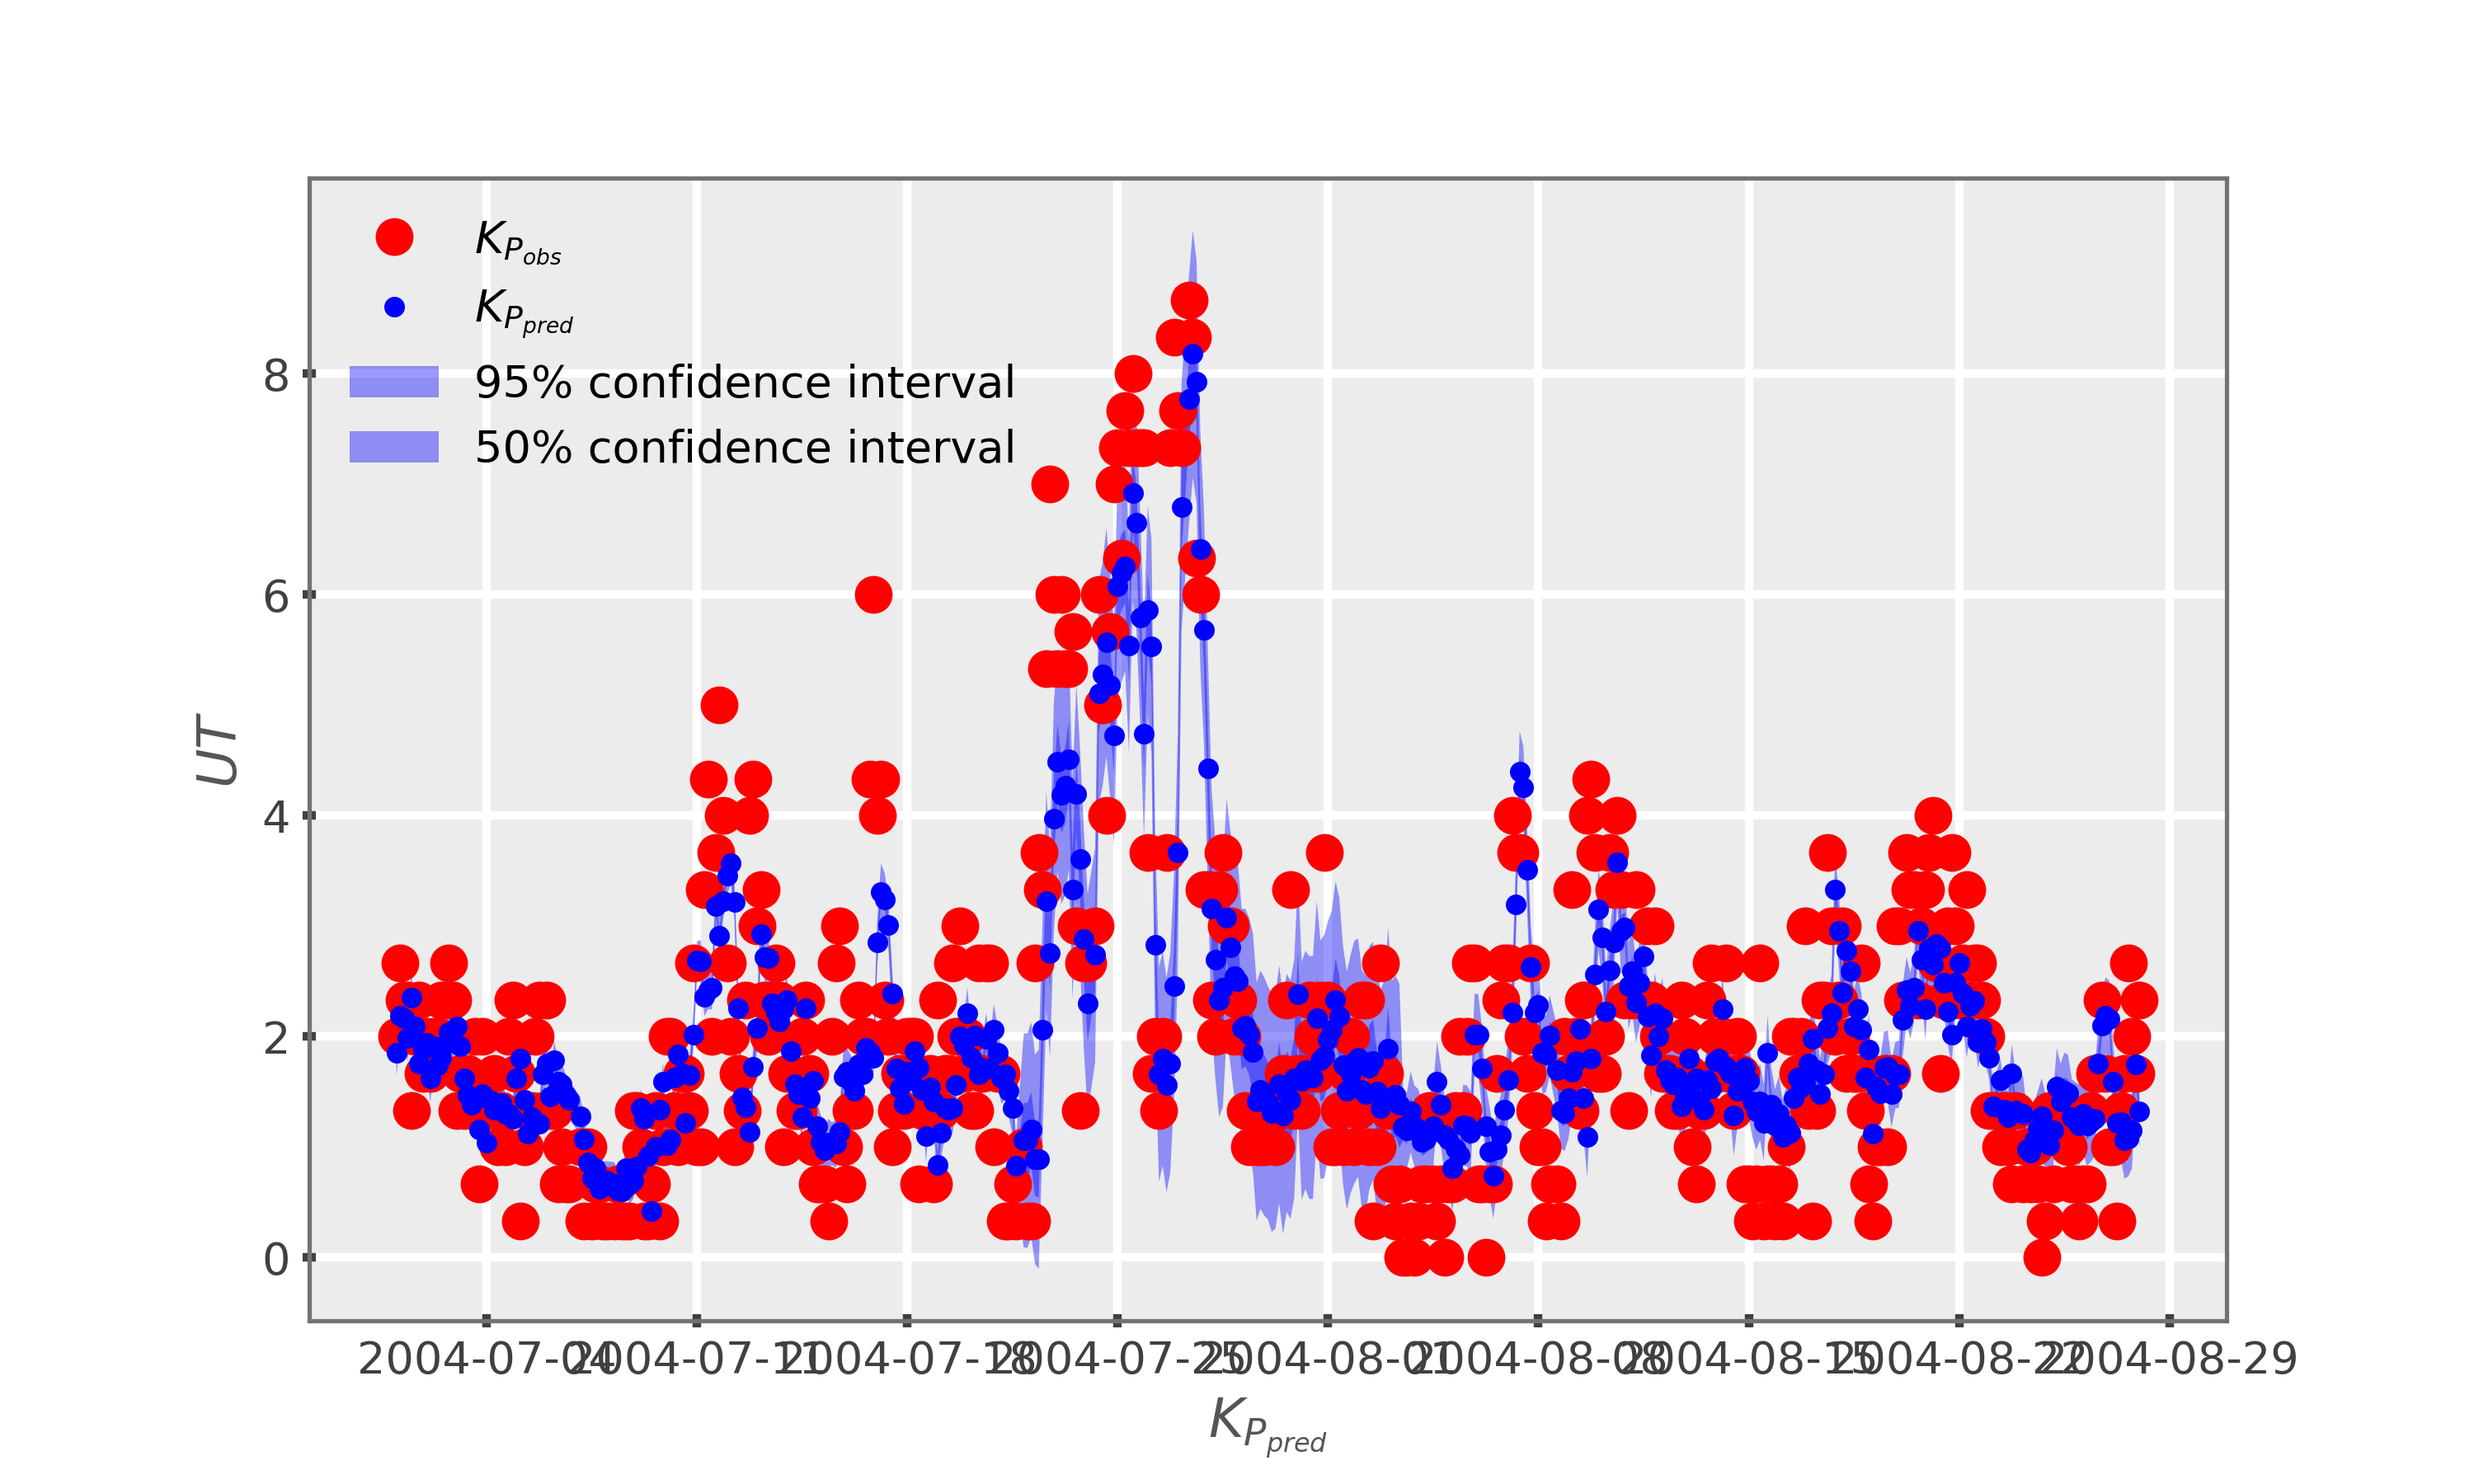
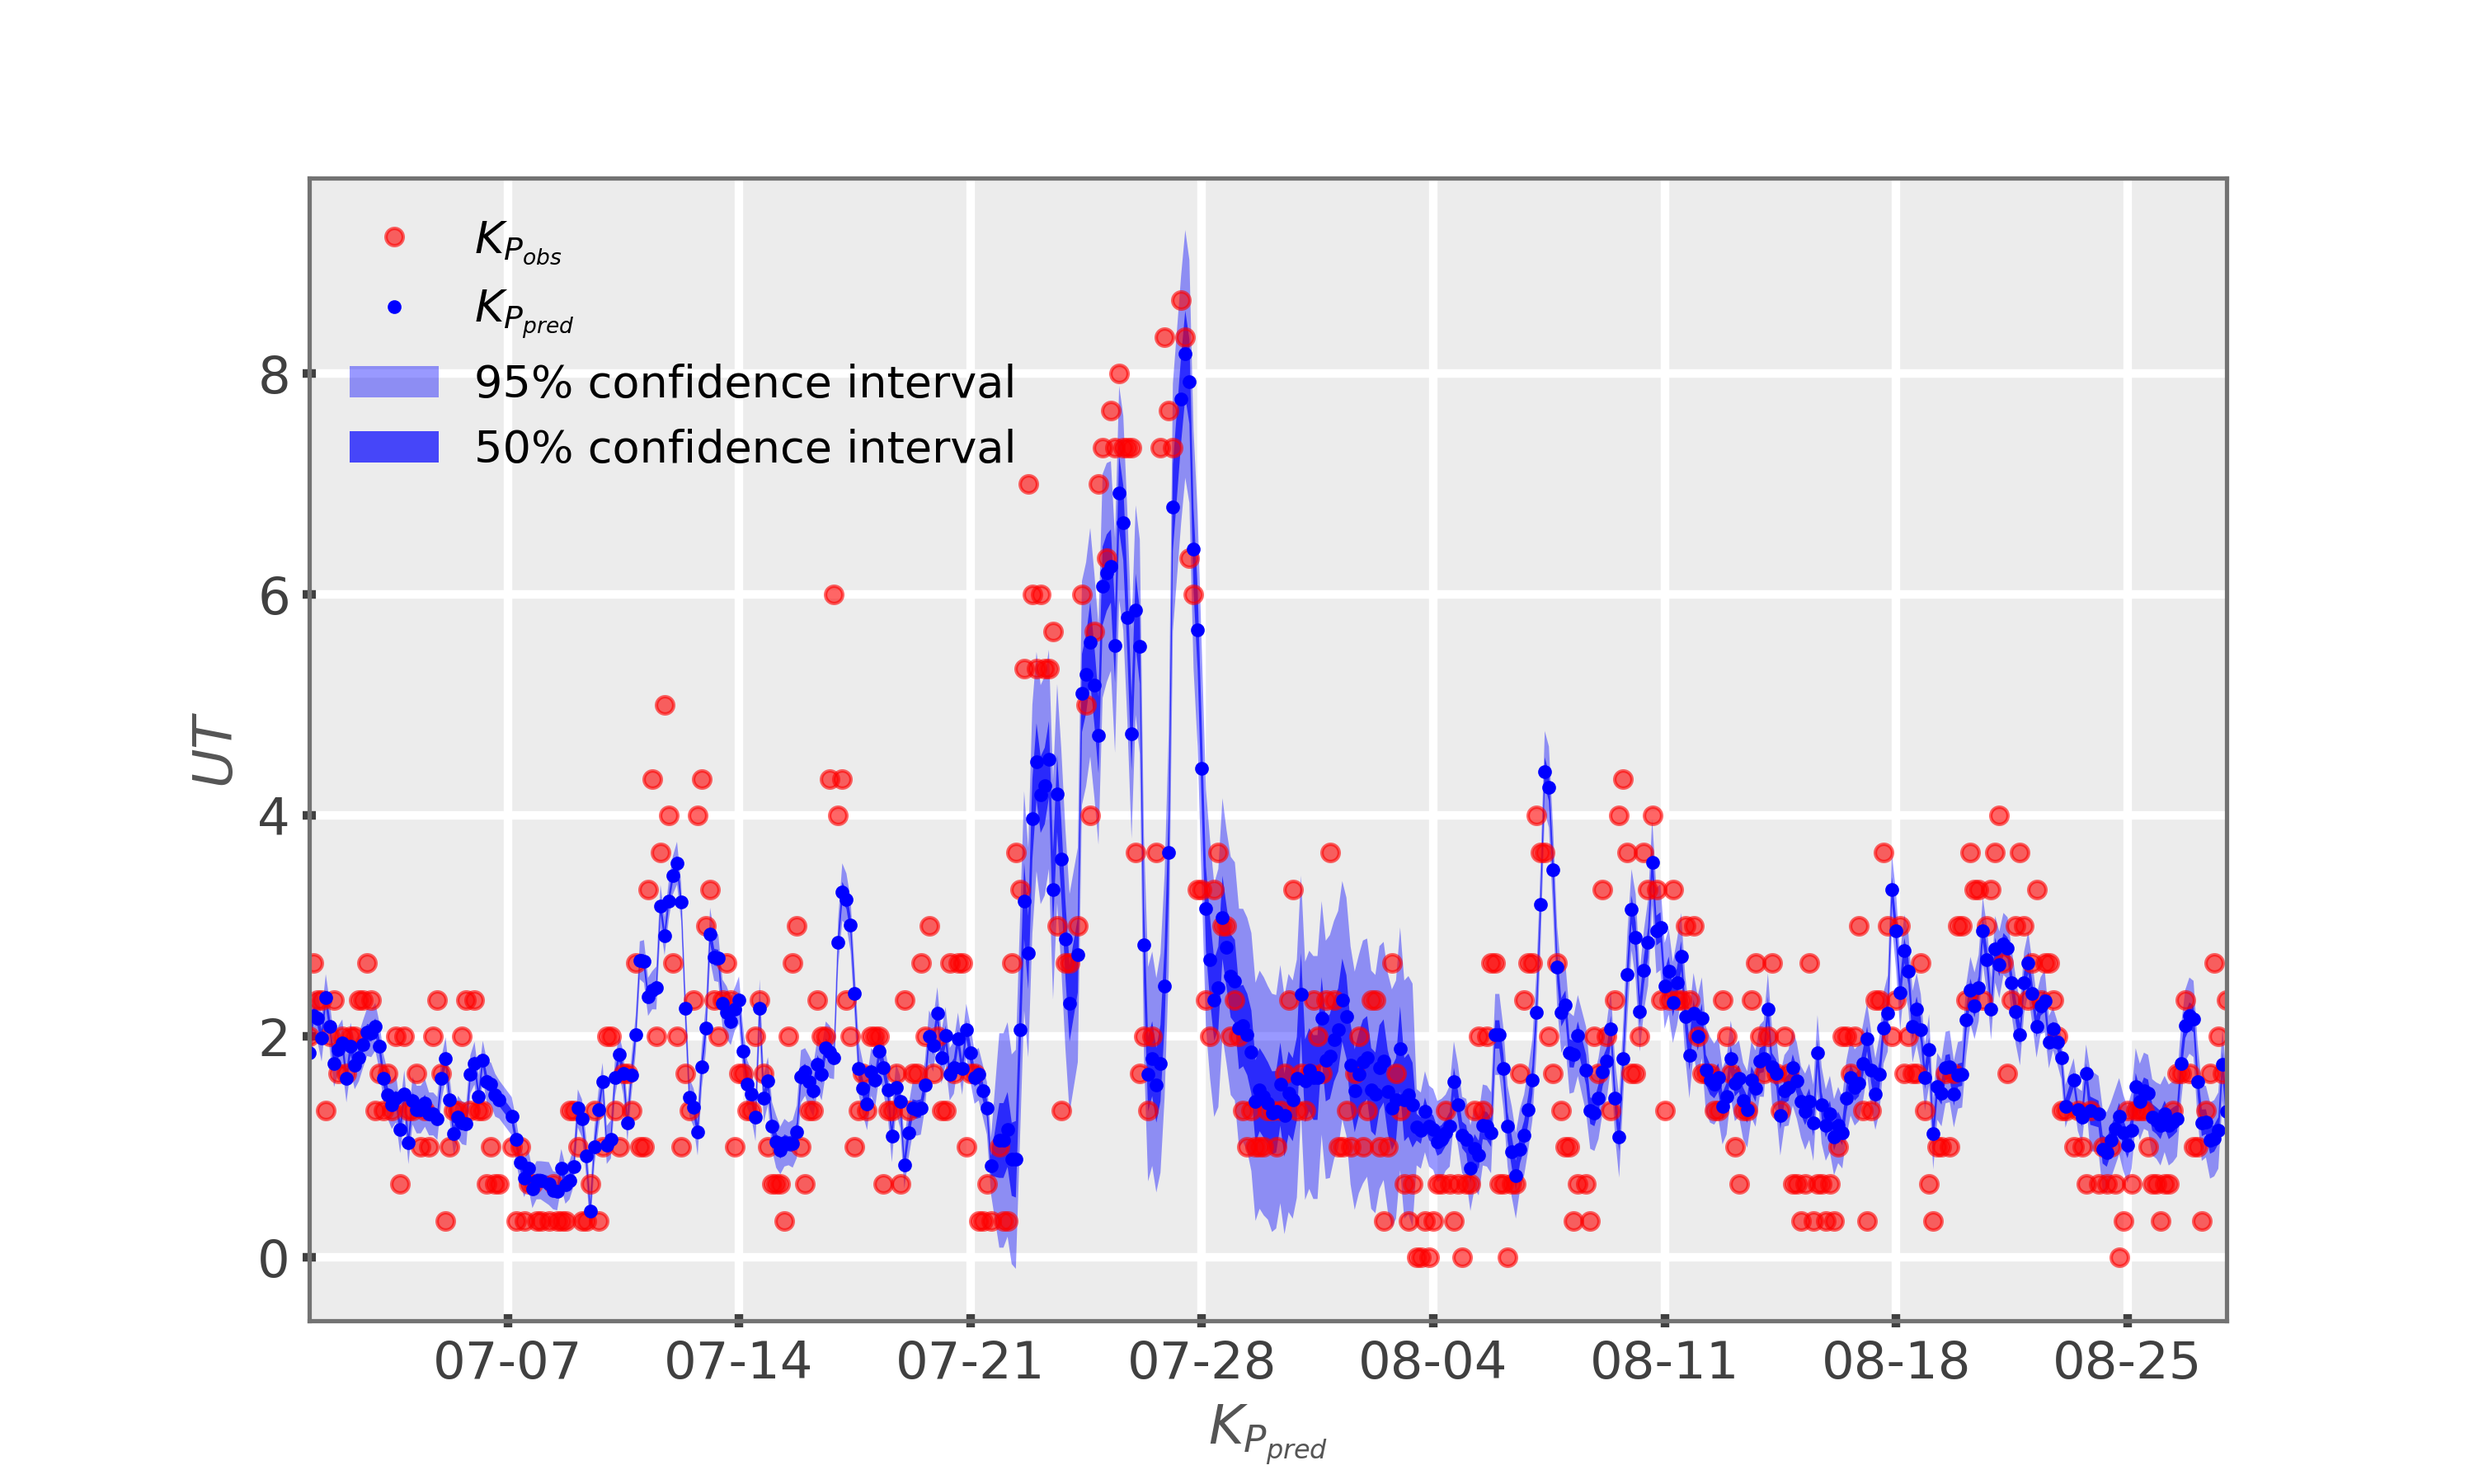
ft

diff --git a/util.py b/util.py
@@ -340,6 +340,7 @@ def run_for_TSS(model, trw):
     
 def plot_pred(model,trw):
     fname = "out/det.%s.pred.%d.csv"%(model,trw)
+    matplotlib.rcParams['xtick.labelsize'] = 10 
     print(fname)
     _o = pd.read_csv(fname)
     _o.dn = pd.to_datetime(_o.dn)
@@ -351,8 +352,10 @@ def plot_pred(model,trw):
     sigma = 1.1 * np.abs(np.array(_o.y_pred) - np.array(_o.lb))
     splot.style("spacepy")
     fig, ax = plt.subplots(nrows=1,ncols=1,figsize=(10,6))
-    ax.plot(_o.dn,y_obs,"ro",markersize=10,label=r"$K_{P_{obs}}$")
-    ax.plot(_o.dn,y_pred,"bo",markersize=5,label=r"$K_{P_{pred}}$")
+    fmt = matplotlib.dates.DateFormatter("%m-%d")
+    ax.xaxis.set_major_formatter(fmt)
+    ax.plot(_o.dn,y_obs,"ro",markersize=5,label=r"$K_{P_{obs}}$",alpha=0.6)
+    ax.plot(_o.dn,y_pred,"bo",markersize=3,label=r"$K_{P_{pred}}$")
     ax.fill(np.concatenate([_o.dn.tolist(), _o.dn.tolist()[::-1]]),
          np.concatenate([y_pred - 1.9600 * sigma,
                         (y_pred + 1.9600 * sigma)[::-1]]),
@@ -360,10 +363,12 @@ def plot_pred(model,trw):
     ax.fill(np.concatenate([_o.dn.tolist(), _o.dn.tolist()[::-1]]),
          np.concatenate([y_pred - 0.684 * sigma,
                         (y_pred + 0.684 * sigma)[::-1]]),
-         alpha=.4, fc='b', ec='None', label='50% confidence interval')
+         alpha=.7, fc='b', ec='None', label='50% confidence interval')
     ax.set_xlabel(r"$K_{P_{pred}}$")
     ax.set_ylabel(r"$UT$")
     ax.legend(loc="upper left")
+    ax.tick_params(axis="both",which="major",labelsize="15")
+    ax.set_xlim(dt.datetime(2004,7,1), dt.datetime(2004,8,28))
     fig.savefig("out/stat/det.pred.%s.%d.line.png"%(model,trw))
     return
 
